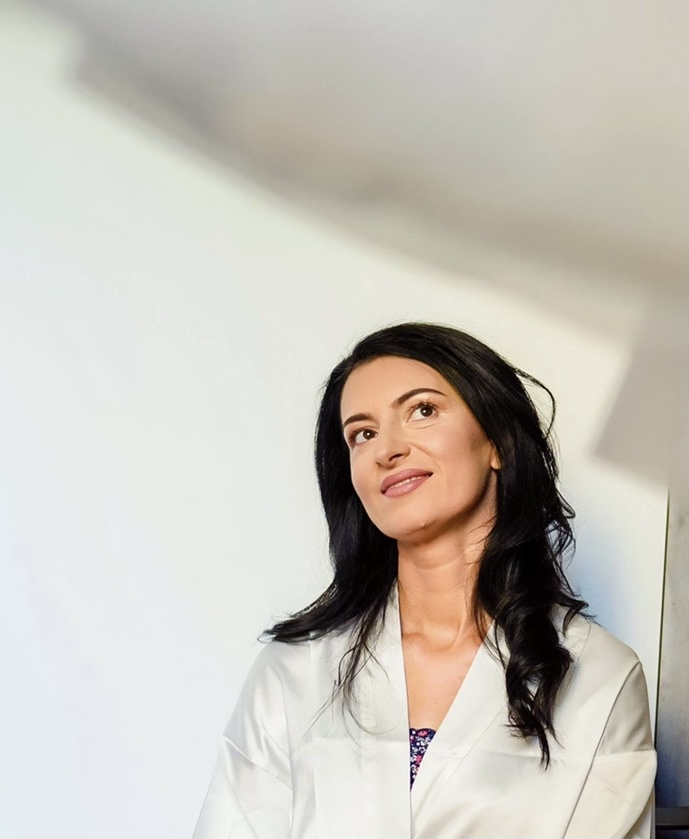
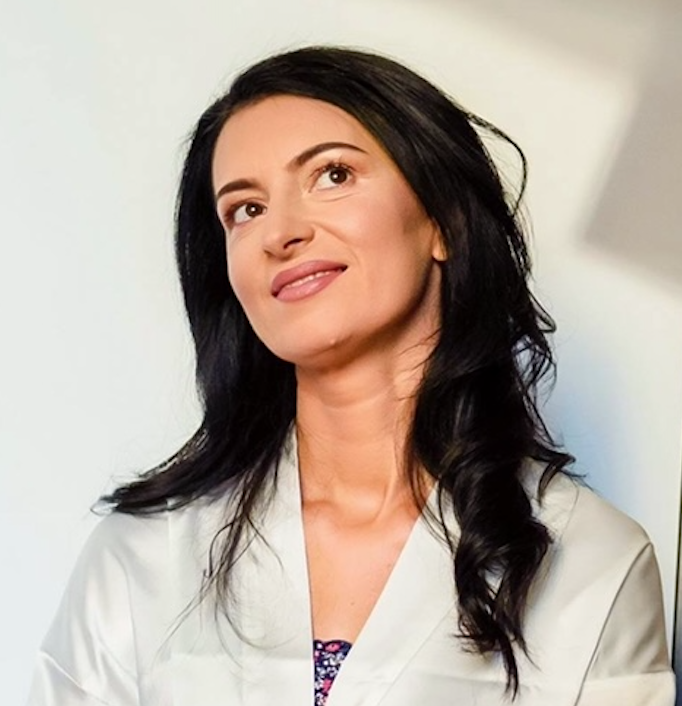
uppdated header.css

diff --git a/portfolio-website/src/components/header/header.css b/portfolio-website/src/components/header/header.css
@@ -1,0 +1,60 @@
+header {
+    height: 100vh;
+    padding-top: 7rem;
+    overflow: hidden;
+}
+
+.header_container {
+    text-align: center;
+    height: 100%;
+}
+
+/*---------------- CTA --------------*/
+.cta {
+    margin-top: 2.5rem;
+    display: flex;
+    gap: 1.2rem;
+    justify-content: center;
+    margin-bottom: 2.5rem;
+}
+
+/*---------------- SOCIALS ICONS --------------*/
+
+.header_socials {
+    display: flex;
+    flex-direction: column;
+    align-items: center;
+    gap: 0.8rem;
+    position: absolute;
+    margin-left: -2rem;
+    bottom: 3rem; 
+}
+
+.header_socials::after {
+    content: '';
+    width: 1px;
+    height: 2rem;
+    background: var(--color-primary);
+}
+
+/*---------------- ME --------------*/
+
+ .me {
+    width: 21.5rem; 
+    height: 24rem;
+    position: absolute;
+    left: calc(50% - 11rem);
+    margin-top: 4rem;
+    border-radius: 10.8rem 10.8rem 0 0;
+    overflow: hidden;
+}
+
+/*---------------- SCROLL DOWN --------------*/
+.scroll_down {
+     position: absolute;
+     right: -2.3rem;
+     bottom: 1rem;
+     transform: rotate(90deg);
+     font-weight: 200;
+     font-size: 0.9rem;
+}

diff --git a/portfolio-website/src/components/header/HeaderSocials.jsx b/portfolio-website/src/components/header/HeaderSocials.jsx
@@ -8,8 +8,8 @@ const HeaderSocials = () => {
   return (
     <div className='header_socials'>
         <a href="https://linkedin.com" target="_blank" rel="noopener noreferrer"><BsLinkedin /></a>
-          <a href="https://github.com.com" target="_blank" rel="noopener noreferrer"><FaGithub /></a>
-            <a href="https://figma.com" target="_blank" rel="noopener noreferrer"><FaFigma /></a>
+        <a href="https://github.com.com" target="_blank" rel="noopener noreferrer"><FaGithub /></a>
+        <a href="https://figma.com" target="_blank" rel="noopener noreferrer"><FaFigma /></a>
         
     </div>
   )

diff --git a/portfolio-website/src/components/header/Header.jsx b/portfolio-website/src/components/header/Header.jsx
@@ -14,8 +14,8 @@ const Header = () => {
          <CTA />
          <HeaderSocials />
 
-         <div className="me">
-           <img src={ME} alt="me" />
+         <div >
+           <img className="me" src={ME} alt="me" />
          </div>
 
          <a href="#contact" className='scroll_down'>Scroll Down</a>
